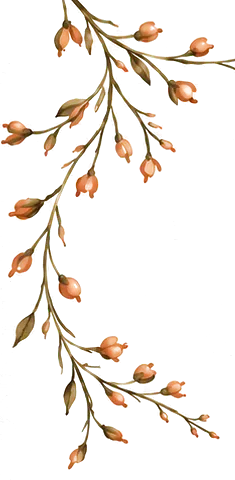
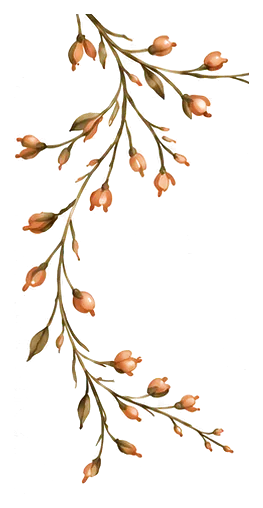
Apply design and conversion review fixes to /reset
- Hills fade into the paper and span the full width; sun and birds
  re-cut so the lowest bird is whole; stray specks removed.
- Smaller hero on phones so the offer, code and button fit; no art
  over the logo at 320px; no sideways scroll.
- "$25 off" is the anchor of the offer card; lining numerals.
- Plan buttons stay on one line; balanced line breaks.
- Phone offer bar: solid background, shorter text, hidden over the
  closing band.
- Checkout click waits for GA4 (max 0.8 s) so the event is not lost
  when Boulevard leaves the page on phones; the tap also copies RESET.
- Step text no longer says checkout opens "right here".
- Pause/cancel answer now matches the membership rules.

Claude-Session: https://claude.ai/code/session_0164WUgiNZPC2bMehjApXhZ2

Changed region(s): [[0.0, 0.0, 1.0, 0.9688]]

diff --git a/reset.css b/reset.css
@@ -92,7 +92,7 @@ body.rs-page {
 .rs-btn:hover svg { transform: translateX(3px); }
 .rs-btn--primary { background: var(--rs-olive); color: var(--rs-cream); }
 .rs-btn--primary:hover { background: var(--rs-olive-deep); }
-.rs-btn--plan { width: 100%; background: var(--rs-ink); color: var(--rs-cream); letter-spacing: 0.08em; text-transform: none; font-size: 16px; }
+.rs-btn--plan { width: 100%; padding-inline: 16px; background: var(--rs-ink); color: var(--rs-cream); letter-spacing: 0.02em; text-transform: none; font-size: 16px; white-space: nowrap; }
 .rs-btn--plan:hover { background: #24180F; }
 .rs-plan--suggested .rs-btn--plan { background: var(--rs-olive); }
 .rs-plan--suggested .rs-btn--plan:hover { background: var(--rs-olive-deep); }
@@ -121,15 +121,11 @@ body.rs-page {
 }
 
 /* ---------- Hero ---------- */
-.rs-decor { position: absolute; top: 0; left: 0; right: 0; height: 0; z-index: 0; }
+.rs-decor { position: absolute; top: 0; left: 0; right: 0; height: 600px; z-index: 0; overflow: hidden; pointer-events: none; }
 .rs-hero { position: relative; text-align: center; }
 .rs-art { position: absolute; pointer-events: none; user-select: none; height: auto; }
 .rs-art--sprig { top: 0; left: max(-6px, calc(50% - 700px)); width: clamp(74px, 15vw, 220px); }
 .rs-art--sun { top: clamp(62px, 9vw, 110px); right: max(8px, calc(50% - 680px)); width: clamp(118px, 21vw, 290px); }
-@media (max-width: 600px) {
-  .rs-art--sprig { width: 64px; left: -4px; }
-  .rs-art--sun { top: 8px; right: 4px; width: 92px; }
-}
 .rs-hero__inner { position: relative; z-index: 1; max-width: 760px; margin: 0 auto; padding: clamp(30px, 5vw, 56px) var(--rs-gutter) 0; }
 .rs-eyebrow { font-size: 12px; letter-spacing: 0.28em; text-transform: uppercase; color: var(--rs-ink-soft); }
 .rs-title {
@@ -158,7 +154,8 @@ body.rs-page {
 .rs-ticket__head { display: flex; align-items: center; justify-content: center; gap: 10px; font-size: 12px; letter-spacing: 0.26em; text-transform: uppercase; color: var(--rs-terra-ink); }
 .rs-key { color: #A67C3D; }
 .rs-ticket__offer { margin-top: 10px !important; font-family: var(--rs-italic); font-weight: 500; font-style: italic; font-size: clamp(27px, 5vw, 33px); line-height: 1.18; }
-.rs-ticket__offer strong { font-weight: 400; color: var(--rs-olive); }
+.rs-ticket__offer strong { display: block; font-weight: 500; font-size: 1.5em; line-height: 1.05; color: var(--rs-olive); font-variant-numeric: lining-nums; }
+.rs-ticket--ended::before { display: none; }
 .rs-ticket--ended .rs-ticket__offer { font-family: var(--rs-sans); font-style: normal; font-size: 17px; line-height: 1.5; }
 .rs-ticket__expiry { margin-top: 12px !important; font-size: 14px; color: var(--rs-ink-soft); }
 .rs-ticket__cta { width: 100%; margin-top: 18px; }
@@ -188,14 +185,17 @@ body.rs-page {
 
 /* Watercolor hills: the band from the front of the door hanger. */
 .rs-hills {
-  height: clamp(96px, 26vw, 330px);
+  width: 100%; height: min(32.75vw, 420px);
   margin-top: clamp(-40px, -2vw, -8px);
-  background: url("assets/reset/hills.webp") center top / cover no-repeat;
+  background: url("assets/reset/hills.webp") center bottom / 100% auto no-repeat;
+  -webkit-mask-image: linear-gradient(#000 72%, transparent);
+  mask-image: linear-gradient(#000 72%, transparent);
 }
+@media (min-width: 1300px) { .rs-hills { background-size: cover; } }
 
 /* ---------- Section heads ---------- */
 .rs-section-head { text-align: center; max-width: 640px; margin: 0 auto clamp(30px, 5vw, 48px); }
-.rs-h2 { font-family: var(--rs-serif); font-weight: 400; font-size: clamp(28px, 4.6vw, 44px); line-height: 1.12; letter-spacing: -0.005em; }
+.rs-h2 { font-family: var(--rs-serif); font-weight: 400; font-size: clamp(26px, 4vw, 40px); line-height: 1.14; letter-spacing: 0.02em; }
 .rs-sub { margin-top: 14px !important; font-family: var(--rs-italic); font-weight: 500; font-style: italic; font-size: clamp(21px, 3vw, 25px); line-height: 1.3; color: var(--rs-ink-soft); }
 
 /* ---------- Plans ---------- */
@@ -210,6 +210,7 @@ body.rs-page {
   padding: 26px 24px 24px;
 }
 .rs-plan--suggested { border: 1.5px solid var(--rs-olive); padding-top: 54px; }
+@media (min-width: 900px) and (max-width: 1200px) { .rs-plan__name { font-size: 23px; } }
 .rs-plan__flag {
   position: absolute; top: 0; left: 0; right: 0;
   padding: 9px 12px; border-radius: 12px 12px 0 0;
@@ -226,7 +227,7 @@ body.rs-page {
 .rs-plan__buy::before { content: ""; display: block; height: 1px; background: var(--rs-line); margin-bottom: 18px; }
 .rs-price { display: flex; align-items: baseline; flex-wrap: wrap; gap: 4px 10px; }
 .rs-price__was { font-size: 20px; color: var(--rs-ink-soft); }
-.rs-price__now { font-family: var(--rs-italic); font-weight: 500; font-style: italic; font-size: 58px; line-height: 1; }
+.rs-price__now { font-family: var(--rs-italic); font-weight: 500; font-style: italic; font-size: 56px; line-height: 1; font-variant-numeric: lining-nums; }
 .rs-price__unit { font-size: 13px; letter-spacing: 0.18em; text-transform: uppercase; color: var(--rs-ink-soft); }
 .rs-price__then { margin: 8px 0 16px !important; font-size: 15px; line-height: 1.5; color: var(--rs-ink-soft); }
 .rs-price__then strong { font-weight: 400; color: var(--rs-ink); }
@@ -242,7 +243,7 @@ body.rs-page {
 .rs-steps b { font-weight: 400; color: var(--rs-ink); }
 .rs-steps__n {
   display: grid; place-items: center; width: 34px; height: 34px; border-radius: 50%;
-  border: 1px solid var(--rs-terra); color: var(--rs-terra-ink); font-family: var(--rs-serif); font-size: 18px;
+  border: 1px solid var(--rs-terra); color: var(--rs-terra-ink); font-family: var(--rs-sans); font-size: 15px;
 }
 .rs-plans__more { max-width: 640px; margin: clamp(30px, 5vw, 44px) auto 0; text-align: center; font-size: 15.5px; color: var(--rs-ink-soft); }
 .rs-plans__more .rs-code { max-width: 360px; margin: 0 auto 20px; }
@@ -252,7 +253,7 @@ body.rs-page {
 .rs-studio { background: var(--rs-cream); padding: clamp(64px, 9vw, 110px) 0; }
 .rs-services { display: grid; gap: 28px; grid-template-columns: 1fr; }
 @media (min-width: 760px) { .rs-services { grid-template-columns: repeat(3, 1fr); } }
-.rs-service img { display: block; width: 100%; height: auto; aspect-ratio: 4 / 3; object-fit: cover; border-radius: 10px; background: #e9dccb; }
+.rs-service img { display: block; width: 100%; height: auto; aspect-ratio: 16 / 10; object-fit: cover; border-radius: 10px; background: #e9dccb; filter: saturate(.8) sepia(.08); }
 .rs-service figcaption { margin-top: 14px; }
 .rs-service h3 { font-family: var(--rs-serif); font-weight: 400; font-size: 22px; }
 .rs-service p { margin-top: 6px !important; font-size: 16px; color: var(--rs-ink-soft); }
@@ -300,7 +301,8 @@ body.rs-page {
 .rs-brand--footer .rs-brand__tag { color: rgba(251, 244, 234, .7); }
 .rs-footer__address { margin-top: 16px !important; line-height: 1.7; }
 .rs-footer__links { list-style: none; padding: 0; display: grid; grid-template-columns: 1fr 1fr; gap: 4px 20px; }
-.rs-footer__links a { display: inline-block; padding: 6px 0; text-decoration: none; }
+.rs-footer__links a { display: inline-block; padding: 10px 0; text-decoration: none; }
+.rs-footer__address a { display: inline-block; padding: 8px 0; }
 .rs-footer__links a:hover { text-decoration: underline; }
 .rs-footer__copy { max-width: 1120px; margin: 32px auto 0 !important; padding: 18px var(--rs-gutter) 0; border-top: 1px solid rgba(251, 244, 234, .14); font-size: 13px; color: rgba(251, 244, 234, .6); }
 
@@ -311,17 +313,43 @@ body.rs-page {
     position: fixed; left: 0; right: 0; bottom: 0; z-index: 20;
     display: flex; align-items: center; justify-content: space-between; gap: 12px;
     padding: 10px 16px calc(10px + env(safe-area-inset-bottom));
-    background: rgba(251, 244, 234, .97); border-top: 1px solid var(--rs-line);
+    background: var(--rs-cream); border-top: 1px solid var(--rs-line);
     box-shadow: 0 -8px 24px -18px rgba(56, 39, 29, .5);
     transform: translateY(110%); visibility: hidden;
     transition: transform .3s ease, visibility 0s linear .3s;
   }
   .rs-sticky.is-shown { transform: none; visibility: visible; transition: transform .3s ease; }
-  .rs-sticky p { font-size: 14px; line-height: 1.3; }
+  .rs-sticky p { min-width: 0; font-size: 14px; line-height: 1.3; }
+  .rs-sticky .rs-btn--small { white-space: nowrap; letter-spacing: .06em; font-size: 12px; padding: 10px 14px; }
   .rs-sticky b { font-weight: 400; letter-spacing: 0.16em; }
   .rs-footer { padding-bottom: 96px; }
 }
 
 @media (prefers-reduced-motion: reduce) {
   .rs-page *, .rs-page *::before, .rs-page *::after { transition: none !important; animation: none !important; }
+}
+
+/* Even line breaks: no single word left alone on a line. */
+.rs-title, .rs-lede, .rs-ticket__offer, .rs-h2, .rs-sub, .rs-close__offer, .rs-quote p, .rs-plan__summary { text-wrap: balance; }
+
+/* ---------- Small phones: keep the offer, code and button on the first screen ---------- */
+@media (max-width: 600px) {
+  .rs-art--sprig { width: 70px; left: -12px; top: -6px; }
+  .rs-art--sun { top: 2px; right: -2px; width: 100px; }
+  .rs-hero__inner { padding-top: 18px; }
+  .rs-title { font-size: 50px; }
+  .rs-rule { margin: 12px auto 10px; }
+  .rs-lede { font-size: 22px; }
+  .rs-ticket { margin-top: 18px !important; padding: 24px 18px 18px; }
+  .rs-ticket__offer { font-size: 24px; }
+  .rs-ticket__offer strong { font-size: 1.4em; }
+  .rs-code { margin-top: 14px; }
+  .rs-ticket__cta { margin-top: 14px; }
+  .rs-br { display: none; }
+}
+@media (max-width: 360px) {
+  .rs-art--sun { width: 76px; top: 0; right: 0; }
+  .rs-art--sprig { width: 56px; }
+  .rs-eyebrow { letter-spacing: .2em; }
+  .rs-title { font-size: 44px; }
 }

diff --git a/reset.jsx b/reset.jsx
@@ -2,7 +2,7 @@
 // "A Year of Possibility" door-hanger landing page (floatarete.com/reset).
 // Offer settings, prices and plan links live in reset-campaign.jsx.
 const { useState, useEffect, useRef } = React;
-const { CAMPAIGN, planPricing, checkoutUrl, currentTime, isOfferActive, readAttribution, track } = ResetCampaign;
+const { CAMPAIGN, planPricing, checkoutUrl, currentTime, isOfferActive, readAttribution, track, trackThenContinue } = ResetCampaign;
 
 const PHONE = "919-636-9899";
 const PHONE_HREF = "tel:+19196369899";
@@ -112,16 +112,16 @@ function Hero({ active, attribution }) {
   return (
     <section className="rs-hero" aria-labelledby="rs-title">
       <div className="rs-hero__inner">
-        <p className="rs-eyebrow">A gift for our neighbors</p>
+        <p className="rs-eyebrow">{active ? "A gift for our neighbors" : "Elemental wellness in Carrboro"}</p>
         <h1 id="rs-title" className="rs-title">A Year of <span>Possibility</span></h1>
         <span className="rs-rule" aria-hidden="true" />
-        <p className="rs-lede">Your best you is on the other side of a good&nbsp;reset.</p>
+        <p className="rs-lede">Your best you is on the other side <br className="rs-br" />of a good&nbsp;reset.</p>
 
         {active ?
           <div className="rs-ticket" id="offer">
             <p className="rs-ticket__head"><IconKey /> Your gift</p>
             <p className="rs-ticket__offer">
-              <strong>${CAMPAIGN.discount} off</strong> your first month of a membership.
+              <strong>${CAMPAIGN.discount} off</strong> your first month of a&nbsp;membership.
             </p>
             <CopyCode attribution={attribution} place="hero" />
             <p className="rs-ticket__expiry">Valid through {CAMPAIGN.lastDayLabel}.</p>
@@ -179,7 +179,7 @@ function PlanCard({ plan, active }) {
         <a className="rs-btn rs-btn--plan" href={checkoutUrl(plan)} data-plan-id={plan.id}>
           <span>Choose {plan.name}</span><IconArrow />
         </a>
-        {active && <p className="rs-plan__code">Enter code <b>{CAMPAIGN.code}</b> at checkout.</p>}
+        {active && <p className="rs-plan__code">We copy code <b>{CAMPAIGN.code}</b> when you tap. Paste it at checkout.</p>}
       </div>
     </article>
   );
@@ -199,8 +199,8 @@ function Plans({ active, attribution }) {
 
         {active &&
           <ol className="rs-steps" aria-label="How to use your gift">
-            <li><span className="rs-steps__n">1</span><span><b>Choose a membership.</b> Checkout opens right here, through Boulevard, our booking system.</span></li>
-            <li><span className="rs-steps__n">2</span><span><b>Enter {CAMPAIGN.code} at checkout.</b> ${CAMPAIGN.discount} comes off your first month.</span></li>
+            <li><span className="rs-steps__n">1</span><span><b>Choose a membership.</b> Checkout opens in Boulevard, our booking system. We copy your code for you.</span></li>
+            <li><span className="rs-steps__n">2</span><span><b>Paste {CAMPAIGN.code} at checkout.</b> ${CAMPAIGN.discount} comes off your first month.</span></li>
             <li><span className="rs-steps__n">3</span><span><b>Book your first visit.</b> Stay in the same window after you pay to pick a day and time.</span></li>
           </ol>
         }
@@ -262,7 +262,7 @@ function Studio() {
           <blockquote>
             <p>“Perfect experience. The float tank is so unbelievably relaxing--an experience of true rest--and every detail had been carefully attended to.”</p>
           </blockquote>
-          <figcaption>Batsheva G. · Google review <span>· Rated 4.9 from 74 Google reviews (October 2026)</span></figcaption>
+          <figcaption>Batsheva G. · Google review <span>Rated 4.9 from 74 Google reviews (October 2026)</span></figcaption>
         </figure>
       </div>
     </section>
@@ -282,7 +282,7 @@ function Faq({ active }) {
     },
     {
       q: "Can I pause or cancel?",
-      a: <>After the three-month minimum, yes. Write to <a href={`mailto:${EMAIL}`}>{EMAIL}</a> at least 14 days before your renewal date. You can pause once, for up to two months. Your member agreement has the complete terms.</>
+      a: <>After the three-month minimum, yes. Write to <a href={`mailto:${EMAIL}`}>{EMAIL}</a> at least 14 days before your renewal date. You can pause once, for up to two months. While paused, member rates and benefits stop, and your membership must renew once after a pause before you can cancel. Your member agreement has the complete terms.</>
     },
     {
       q: "When do I book my first visit?",
@@ -315,7 +315,7 @@ function Faq({ active }) {
 // ---------- Closing ----------
 function Closing({ active }) {
   return (
-    <section className="rs-close" aria-labelledby="rs-close-title">
+    <section className="rs-close" id="closing" aria-labelledby="rs-close-title">
       <div className="rs-close__band">
         <h2 id="rs-close-title" className="rs-close__title">It’s finally time.</h2>
         {active ?
@@ -362,7 +362,7 @@ function Footer() {
 function StickyBar({ show }) {
   return (
     <div className={`rs-sticky ${show ? "is-shown" : ""}`} aria-hidden={!show}>
-      <p><b>{CAMPAIGN.code}</b> · ${CAMPAIGN.discount} off your first month</p>
+      <p><b>{CAMPAIGN.code}</b> · ${CAMPAIGN.discount} off month one</p>
       <a className="rs-btn rs-btn--primary rs-btn--small" href="#plans" tabIndex={show ? 0 : -1} data-scroll-cta="sticky">Find your ritual</a>
     </div>
   );
@@ -390,9 +390,21 @@ function App() {
     // Plan buttons open Boulevard checkout. booking-notice.js handles the
     // click at the document level and stops it there, so listen on the
     // window first to record it.
+    // The tap also copies the code, so it is ready to paste in checkout.
     function onClick(event) {
       const link = event.target.closest && event.target.closest("a[data-plan-id]");
-      if (link) track("membership_checkout_click", { plan_id: link.dataset.planId, content: attribution.content, offer_active: active });
+      if (!link) return;
+      if (link.dataset.tracked === "1") { delete link.dataset.tracked; return; }
+      if (active) copyText(CAMPAIGN.code);
+      const params = { plan_id: link.dataset.planId, content: attribution.content, offer_active: active };
+      const plainClick = event.button === 0 && !event.metaKey && !event.ctrlKey && !event.shiftKey && !event.altKey;
+      if (!plainClick || typeof window.gtag !== "function") { track("membership_checkout_click", params); return; }
+      event.preventDefault();
+      event.stopImmediatePropagation();
+      trackThenContinue("membership_checkout_click", params, () => {
+        link.dataset.tracked = "1";
+        link.click();
+      });
     }
     window.addEventListener("click", onClick, true);
 
@@ -400,7 +412,9 @@ function App() {
     // except while the plans are on screen.
     const offer = document.getElementById("offer");
     const plans = document.getElementById("plans");
+    const closing = document.getElementById("closing");
     let offerVisible = true;
+    let closingVisible = false;
     let plansSeen = false;
     let plansVisible = false;
     let io;
@@ -408,6 +422,7 @@ function App() {
       io = new IntersectionObserver((entries) => {
         entries.forEach((e) => {
           if (e.target === offer) offerVisible = e.isIntersecting;
+          if (e.target === closing) closingVisible = e.isIntersecting;
           if (e.target === plans) {
             plansVisible = e.isIntersecting;
             if (e.isIntersecting && !plansSeen) {
@@ -416,10 +431,11 @@ function App() {
             }
           }
         });
-        setShowSticky(active && !offerVisible && !plansVisible);
+        setShowSticky(active && !offerVisible && !plansVisible && !closingVisible);
       }, { threshold: 0 });
       io.observe(offer);
       io.observe(plans);
+      if (closing) io.observe(closing);
     }
     return () => {
       window.removeEventListener("click", onClick, true);
@@ -431,8 +447,8 @@ function App() {
     <>
       <a className="rs-skip" href="#plans">Skip to memberships</a>
       <div className="rs-decor" aria-hidden="true">
-        <img className="rs-art rs-art--sprig" src="assets/reset/sprig.webp" alt="" width="235" height="480" />
-        <img className="rs-art rs-art--sun" src="assets/reset/sun-birds.webp" alt="" width="300" height="180" />
+        <img className="rs-art rs-art--sprig" src="assets/reset/sprig.webp" alt="" width="263" height="508" />
+        <img className="rs-art rs-art--sun" src="assets/reset/sun-birds.webp" alt="" width="347" height="218" />
       </div>
       <Header />
       <main>

diff --git a/reset-campaign.jsx b/reset-campaign.jsx
@@ -23,7 +23,7 @@
     discount: 25,
     // The first moment the offer is over: midnight Eastern, start of Feb 1.
     endsAt: "2027-02-01T00:00:00-05:00",
-    lastDayLabel: "January 31, 2027",
+    lastDayLabel: "January\u00a031,\u00a02027",
     minimumMonths: 3,
     plans: [
       {
@@ -136,6 +136,21 @@
     return true;
   }
 
+  // Send an event, then continue (for example, open checkout). On phones
+  // Boulevard checkout leaves this page, and GA4 can lose an event that has
+  // not been sent yet. Continue when GA4 confirms, or after `waitMs` at most.
+  function trackThenContinue(name, params, proceed, waitMs) {
+    var wait = waitMs || 800;
+    var done = false;
+    function go() { if (!done) { done = true; proceed(); } }
+    var payload = {};
+    for (var k in params) if (Object.prototype.hasOwnProperty.call(params, k)) payload[k] = params[k];
+    payload.event_callback = go;
+    payload.event_timeout = wait;
+    if (!track(name, payload)) { go(); return; }
+    global.setTimeout(go, wait);
+  }
+
   global.ResetCampaign = {
     CAMPAIGN: CAMPAIGN,
     planPricing: planPricing,
@@ -143,6 +158,7 @@
     currentTime: currentTime,
     isOfferActive: isOfferActive,
     readAttribution: readAttribution,
-    track: track
+    track: track,
+    trackThenContinue: trackThenContinue
   };
 })(typeof window !== "undefined" ? window : globalThis);
